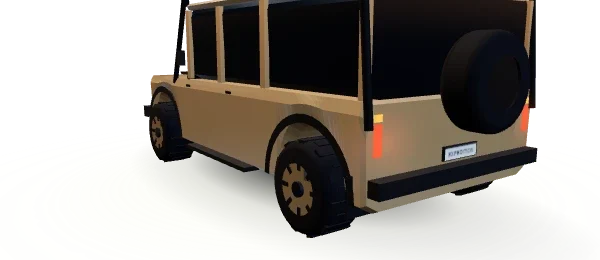
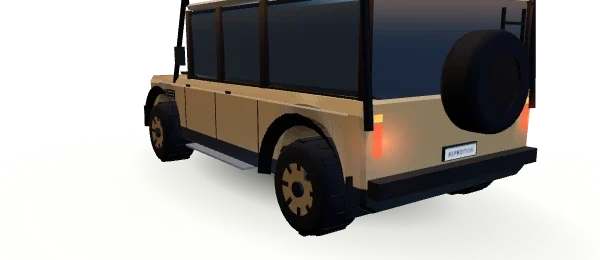
feat: 황혼 질주 SUV 2대 · 레트로 버블 다듬기 — SUV: 반사 유리 · 검은 아래 몸 · 두툼한 펜더 · 문 틈 · 어깨선 · 보닛 · 펜더 통풍구 · 헤드램프 크롬 테와 LED 고리 · 안개등 · 견인고리 · 하부 보호판 · 지붕 레일 · 스페어 덮개 · 6살 알루미늄 휠 / 익스페디션 기름통 · 모래 사다리 · 어닝 · 뒷문 사다리 · 비드록 휠, 레트로: 하얀 띠 타이어 · 스피너 휠캡 · 크롬 범퍼와 뿔 · 크롬 유리 테 · 옆 크롬 띠 · 지붕까지 줄무늬 · 사탕 빨강, 캐시 ?v=37

diff --git a/web/games/embed/twilightrun/concepts.js b/web/games/embed/twilightrun/concepts.js
@@ -1,5 +1,5 @@
-import { TIRE_RADIUS } from './drive.js?v=36';
-import { bodyFinish, glassFinish } from './finishes.js?v=36';
+import { TIRE_RADIUS } from './drive.js?v=37';
+import { bodyFinish, glassFinish } from './finishes.js?v=37';
 
 // 차고에서 사는 새 차 6대. 기존 4종(매끈 · 투톤 지붕 · 칼날 LED)과 겹치지 않게 차마다 몸통 단면 · 유리 · 얼굴 조명 · 꼬리를 따로 짠다.
 // 모양은 운영자가 준 참고 사진 6장(2026-11-21)을 따라가고, 로고 · 엠블럼 · 글자는 넣지 않는다.
@@ -99,7 +99,7 @@ export function createConcepts(T, kit) {
     const brake = standard(look.brake, .39, .19);
     const rim = standard(look.rim, .24, .72);
     const accent = look.lip ? basic(look.lip) : rim;
-    const cover = look.disc ? new T.CylinderGeometry(.30, .30, .02, 28) : null;
+    const cover = look.disc ? new T.CylinderGeometry(look.coverR || .3, look.coverR || .3, .02, 28) : null;
     for (const s of [-1, 1]) for (const end of [-1, 1]) {
       const assembly = new T.Group(), rotating = new T.Group();
       const front = end < 0;
@@ -111,8 +111,8 @@ export function createConcepts(T, kit) {
       tire.rotation.z = Math.PI / 2;
       if (look.tread) {
         tire.scale.y = 1.3;
-        for (let i = 0; i < 22; i++) {
-          const a = i * Math.PI * 2 / 22;
+        for (let i = 0; i < 16; i++) {
+          const a = i * Math.PI * 2 / 16;
           bar(rotating, rubber, (i % 2 ? .03 : -.03), Math.cos(a) * .362, Math.sin(a) * .362, .24, .026, .07, a);
         }
       }
@@ -143,6 +143,15 @@ export function createConcepts(T, kit) {
       } else for (let i = 0; i < look.spokes; i++) {
         const a = i * Math.PI * 2 / look.spokes;
         bar(rotating, rim, s * .164, Math.cos(a) * .136, Math.sin(a) * .136, .029, .212, look.width || .03, a + (look.twist || 0));
+      }
+      if (look.whitewall) piece(rotating, new T.TorusGeometry(.285, .032, 8, 36), basic('#f4f1e8'), s * .128, 0, 0).rotation.y = Math.PI / 2;
+      if (look.spinner) {
+        piece(rotating, new T.ConeGeometry(.07, .08, 16), rim, s * .2, 0, 0).rotation.z = -s * Math.PI / 2;
+        for (let k = 0; k < 3; k++) bar(rotating, rim, s * .19, Math.cos(k * 2.094) * .07, Math.sin(k * 2.094) * .07, .02, .12, .025, k * 2.094);
+      }
+      if (look.beadlock) for (let k = 0; k < 8; k++) {
+        const a = k * Math.PI / 4;
+        box(rotating, grille, s * .17, Math.cos(a) * .272, Math.sin(a) * .272, .02, .022, .022);
       }
       if (look.nut) piece(rotating, new T.CylinderGeometry(.05, .05, .03, 6), basic(look.nut), s * .182, 0, 0).rotation.z = Math.PI / 2;
       piece(rotating, lug, trim, s * .175, 0, 0).rotation.z = Math.PI / 2;
@@ -246,6 +255,15 @@ export function createConcepts(T, kit) {
     }
     box(bumper, lamp, 0, .32, l + .06, .12, .035, .015);
   }
+  function archFlare(group, material, x, s, zc, r, width, out) {
+    const a = [], b = [];
+    for (let i = 0; i <= 12; i++) {
+      const t = Math.PI * i / 12;
+      a.push([x, TIRE_RADIUS + Math.sin(t) * r, zc + Math.cos(t) * r]);
+      b.push([x + s * out, TIRE_RADIUS + Math.sin(t) * (r + width), zc + Math.cos(t) * (r + width)]);
+    }
+    return ribbon(group, material, a, b);
+  }
   function archRing(group, material, x, zc, r, width = .022) {
     const a = [], b = [];
     for (let i = 0; i <= 18; i++) {
@@ -272,12 +290,31 @@ export function createConcepts(T, kit) {
     const main = [[-l, w * .94, .32, .98, .95], [-l + .06, w * .98, .3, 1.04, .96], [-.85, w, .3, 1.06, .96], [l - .04, w, .3, 1.08, .97], [l, w * .98, .32, 1.06, .97]];
     const surface = wheelArches(main, axle, { front: 0, rear: 0, flare: 0, step: .25, lip: .02 });
     return {
-      surface, body: loft(surface), flat: true, roofMat: expedition ? 'paint' : gloss,
+      surface, body: loft(surface), flat: true, roofMat: expedition ? 'paint' : gloss, glass: '#6a8294',
       cabin: loft([[-.86, w * .93, 1.04, 1.12, .99], [-.78, w * .92, 1.05, 1.82, .96], [l - .06, w * .92, 1.07, 1.82, .96]]),
       roof: loft([[-.8, w * .95, 1.8, 1.88, .97], [l - .04, w * .95, 1.8, 1.88, .97]]),
-      front: -.8, rear: .9, look: { pin: 0 },
+      front: -.8, rear: .9, look: { pin: 0, belt: [.5, 0], lower: '#1d1f21' },
       dress({ chassis, frontPanel, bumper, wing, flank, lamp, paint }) {
         const black = standard('#16181a', .7, .2);
+        const alloy2 = standard('#d9dde1', .2, .9);
+        const crease = standard(expedition ? '#f1d9ad' : '#de4a50', .2, .3);
+        // 공통 다듬기: 헤드램프 크롬 테 + LED 고리, 안개등 · 견인고리 · 알루미늄 하부 보호판, 보닛 통풍구, 앞 펜더 옆 통풍구, 문 틈 · 어깨선, 유리 고무 테, 두툼한 펜더
+        for (const s of [-1, 1]) {
+          piece(frontPanel, new T.TorusGeometry(.1, .014, 8, 28), alloy2, s * w * .68, .87, -l - .03);
+          piece(frontPanel, new T.TorusGeometry(.066, .008, 6, 24), basic('#ffffff'), s * w * .68, .87, -l - .045);
+          piece(frontPanel, new T.CylinderGeometry(.045, .045, .03, 16), basic('#fff4d0'), s * w * .74, .55, -l - .16).rotation.x = Math.PI / 2;
+          box(frontPanel, basic('#d4271c'), s * w * .42, .47, -l - .16, .05, .03, .06);
+          for (let k = 0; k < 2; k++) box(chassis, grille, s * w * .32, 1.088, -1.75 + k * .14, .26, .006, .05);
+          box(flank[s], grille, s * (w + .006), .86, -1.25, .006, .11, .24);
+          for (let k = 0; k < 3; k++) box(flank[s], alloy2, s * (w + .01), .82 + k * .035, -1.25, .006, .008, .22);
+          box(flank[s], crease, s * (w + .006), .985, 0, .006, .014, 2 * l - .3);
+          for (const z of [-.82, -.05, .78]) box(flank[s], grille, s * (w + .004), .74, z, .004, .5, .008);
+          for (const y of [1.08, 1.78]) box(chassis, black, s * w * .925, y, (l - .85) / 2, .02, .03, l + .8);
+          for (const zc of [-axle, axle]) archFlare(flank[s], black, s * (w + .015), s, zc, .48, .1, .07);
+          box(flank[s], alloy2, s * w * 1.0, .35, 0, .18, .02, 1.3);
+          glowSprite(bumper, '#ff3a26', s * w * .88, .82, l + .06, .5, .3);
+        }
+        box(frontPanel, alloy2, 0, .36, -l + .05, w * 1.1, .02, .42);
         const steel = standard(expedition ? '#2a2c2e' : '#bfc4c8', .35, .7);
         box(chassis, expedition ? black : paint, 0, 1.07, -1.45, w * 1.2, .03, .95);
         box(frontPanel, grille, 0, .86, -l - .008, w * .86, .26, .02);
@@ -286,12 +323,14 @@ export function createConcepts(T, kit) {
           box(frontPanel, steel, s * w * .7, .86, -l - .012, .3, .26, .02);
           piece(frontPanel, new T.CylinderGeometry(.085, .085, .03, 20), basic('#fff6dc'), s * w * .68, .87, -l - .03).rotation.x = Math.PI / 2;
           for (const y of [.79, .94]) piece(frontPanel, new T.CylinderGeometry(.024, .024, .02, 10), basic('#ffb02a'), s * w * .86, y, -l - .03).rotation.x = Math.PI / 2;
-          for (const zc of [-axle, axle]) archRing(flank[s], black, s * (w + .02), zc, .5, .07);
-          box(flank[s], black, s * w * 1.0, .34, 0, .16, .04, 1.3);
           for (const z of [-.7, .25]) box(flank[s], steel, s * (w + .012), 1.0, z, .012, .025, .09);
           for (const z of [-.8, -.05, .78, l - .07]) box(chassis, paint, s * w * .93, 1.44, z, .045, .74, .08);
-          box(chassis, black, s * w * 1.06, 1.3, -.76, .05, .16, .12);
-          if (!expedition) box(chassis, standard('#1d2a35', .1, .7), s * w * .8, 1.875, .3, .22, .03, 1.0);
+          box(chassis, black, s * w * 1.07, 1.32, -.76, .06, .2, .15);
+          if (!expedition) {
+            box(chassis, standard('#2c3a46', .05, .85), s * w * .8, 1.875, .3, .22, .03, 1.0);
+            rod(chassis, alloy2, [s * w * .82, 1.95, -.7], [s * w * .82, 1.95, l - .2], .018);
+            for (const z of [-.7, l - .2]) rod(chassis, alloy2, [s * w * .82, 1.87, z], [s * w * .82, 1.95, z], .018);
+          }
           box(bumper, lamp, s * w * .88, .82, l + .012, .07, .22, .012);
           box(bumper, basic('#ffb02a'), s * w * .88, .97, l + .012, .07, .05, .012);
         }
@@ -303,6 +342,10 @@ export function createConcepts(T, kit) {
         spare.rotation.x = Math.PI / 2;
         piece(spare, detailWheel, rubber, 0, 0, 0);
         piece(spare, new T.CylinderGeometry(.24, .24, .2, 20), steel, 0, 0, 0);
+        if (!expedition) {
+          piece(spare, new T.CylinderGeometry(.38, .38, .24, 28, 1, true), paint, 0, 0, 0);
+          piece(spare, new T.CylinderGeometry(.14, .14, .26, 20), alloy2, 0, 0, 0);
+        }
         bumper.add(spare);
         if (expedition) {
           const rack = standard('#202224', .5, .6);
@@ -314,7 +357,7 @@ export function createConcepts(T, kit) {
             for (const x of [.35, .72]) rod(frontPanel, rack, [s * w * x, .5, -l - .17], [s * w * x, .98, -l - .14], .03);
             box(flank[s], black, s * w * .88, .42, axle + .5, .3, .3, .02);
           }
-          for (let k = 0; k <= 8; k++) rod(chassis, rack, [-w * .9, 2.02, lerp(-1, l - .1, k / 8)], [w * .9, 2.02, lerp(-1, l - .1, k / 8)], .02);
+          for (let k = 0; k <= 5; k++) rod(chassis, rack, [-w * .9, 2.02, lerp(-1, l - .1, k / 5)], [w * .9, 2.02, lerp(-1, l - .1, k / 5)], .02);
           rod(frontPanel, rack, [-w * .8, .98, -l - .14], [w * .8, .98, -l - .14], .03);
           for (let k = 0; k < 4; k++) {
             const x = (k - 1.5) * w * .36;
@@ -326,10 +369,19 @@ export function createConcepts(T, kit) {
           box(frontPanel, steel, 0, .53, -l - .17, .3, .1, .1);
           glowSprite(chassis, '#fff3cc', 0, 2.13, -1.1, 1.2, .25);
           rod(chassis, black, [w * 1.03, .98, -.92], [w * 1.03, 1.9, -.86], .045);
+          const can = standard('#4b5a38', .5, .2), ladder = standard('#ff7a1a', .45, .1);
+          for (const x of [-.25, .05]) {
+            box(chassis, can, x * w, 2.2, l - .45, .16, .3, .24);
+            box(chassis, black, x * w, 2.37, l - .45, .1, .03, .05);
+          }
+          for (const x of [-.75, -.55]) box(chassis, ladder, x * w, 2.07, .05, .16, .03, 1.2);
+          piece(chassis, new T.CylinderGeometry(.07, .07, 2.2, 12), black, w * .99, 2.0, .15).rotation.x = Math.PI / 2;
+          for (let k = 0; k < 4; k++) box(bumper, rack, w * .52, .95 + k * .22, l + .06, .3, .022, .022);
+          for (const x of [.38, .66]) box(bumper, rack, x * w, 1.3, l + .06, .022, .85, .022);
         }
         return { plateY: .64, tail: [.88, .82], head: [.68, .87, 0] };
       },
-      wheel: expedition ? { brake: '#555', rim: '#c9a56a', spokes: 8, disc: true, tread: true } : { brake: '#555', rim: '#c8ccd0', spokes: 5, disc: true, tread: true },
+      wheel: expedition ? { brake: '#555', rim: '#c9a56a', spokes: 8, disc: true, tread: true, beadlock: true } : { brake: '#c52d2d', rim: '#d2d6da', spokes: 6, width: .06, tread: true, big: true, nut: '#2a2c2e' },
     };
   }
 
@@ -532,10 +584,30 @@ export function createConcepts(T, kit) {
         roof: [[-.36, w * .5, 1.2, 1.275, .72], [.4, w * .48, 1.21, 1.285, .72], [.95, w * .4, 1.0, 1.065, .78]],
       });
       return {
-        ...c, roofMat: 'paint', glass: '#2c4a3a', style: 2, stripe: '#121212', front: -.7, rear: .9, look: { pin: 0 },
+        ...c, roofMat: 'finish', glass: '#5f8590', style: 2, stripe: '#121212', front: -.7, rear: .9, look: { pin: 0 },
+        paint: { roughness: .13, metalness: .32, clearcoat: 1, clearcoatRoughness: .04, envMapIntensity: 1.25 },
         dress({ chassis, frontPanel, bumper, wing, flank, lamp }) {
           const chrome = standard('#e1e4e8', .08, 1);
           const nose = -l - .055;
+          // 크롬 다듬기: 옆 크롬 띠 · 유리 크롬 테 · 둥근 크롬 범퍼와 범퍼 뿔 · 안개등 · 보닛 장식 · 쌍 배기구 · 크롬 후미등 테
+          for (const s of [-1, 1]) {
+            sideLine(flank[s], chrome, s, z => c.edge(z) + .004, -l + .35, .5, l - .2, .52, .014, 16);
+            const cab = c.cabinList, a = [], b = [];
+            for (let i = 0; i <= 14; i++) {
+              const z = lerp(cab[0][0] + .06, cab.at(-1)[0] - .06, i / 14);
+              a.push([s * (at(cab, z, 1) + .006), at(cab, z, 2) + .03, z]);
+              b.push([s * (at(cab, z, 1) + .006), at(cab, z, 2) + .05, z]);
+            }
+            ribbon(chassis, chrome, a, b);
+            rod(frontPanel, chrome, [s * w * .2, .22, nose - .07], [s * w * .2, .4, nose - .06], .022);
+            piece(frontPanel, new T.TorusGeometry(.04, .01, 6, 18), chrome, s * w * .5, .3, nose - .02);
+            piece(frontPanel, new T.CircleGeometry(.036, 16), basic('#ffd76a'), s * w * .5, .3, nose - .015).rotation.y = Math.PI;
+            piece(bumper, new T.TorusGeometry(.065, .012, 6, 22), chrome, s * c.fx, .62, l + .05);
+            piece(bumper, new T.CylinderGeometry(.035, .035, .14, 12), chrome, s * w * .3, .3, l + .02).rotation.x = Math.PI / 2;
+          }
+          rod(frontPanel, chrome, [-w * .78, .27, nose + .02], [w * .78, .27, nose + .02], .028);
+          rod(bumper, chrome, [-w * .7, .4, l + .06], [w * .7, .4, l + .06], .028);
+          bar(chassis, chrome, 0, top(c.main, -l + .25) + .03, -l + .25, .012, .05, .16, -.3);
           const ring = piece(frontPanel, new T.TorusGeometry(.16, .02, 10, 36), chrome, 0, .43, nose - .01);
           ring.scale.set(1.35, .78, 1);
           const hole = piece(frontPanel, new T.CircleGeometry(.16, 32), grille, 0, .43, nose - .004);
@@ -546,15 +618,13 @@ export function createConcepts(T, kit) {
             const x = s * c.fx;
             piece(frontPanel, new T.TorusGeometry(.105, .022, 10, 32), chrome, x, .62, -l + .1);
             piece(frontPanel, new T.CircleGeometry(.1, 28), basic('#fff3dc'), x, .62, -l + .095).rotation.y = Math.PI;
-            for (let k = 0; k < 6; k++) box(flank[s], grille, s * c.edge(-.62 + k * .05), .6, -.62 + k * .05, .01, .12, .014);
+            for (let k = 0; k < 6; k++) box(flank[s], chrome, s * c.edge(-.62 + k * .05), .6, -.62 + k * .05, .01, .12, .014);
             box(chassis, chrome, s * w * .74, .98, -.66, .1, .06, .08);
             piece(bumper, new T.CircleGeometry(.055, 20), lamp, x, .62, l + .045);
           }
-          box(frontPanel, chrome, 0, .29, nose - .04, w * 1.5, .03, .04);
-          box(bumper, chrome, 0, .4, l + .05, w * 1.4, .03, .04);
           return { plateY: .5, tail: [.72, .62], head: [.72, .62, -.1] };
         },
-        wheel: { brake: '#333', rim: '#d0d3d6', spokes: 0, disc: true },
+        wheel: { brake: '#333', rim: '#e6e9ec', spokes: 0, disc: true, coverR: .19, whitewall: true, spinner: true },
       };
     },
     // 10 스틸 웨지 — 스테인리스 각진 전기 픽업(운영자 참고 사진): 삼각형 지붕선, 앞 끝 전체 가로 빛줄, 각진 검은 펜더, 높은 차체
@@ -683,7 +753,7 @@ export function createConcepts(T, kit) {
     const base = d.glass ? standard(d.glass, .06, .8) : glass;
     const glazing = glassFinish(T, base, { w, front: d.front, rear: d.rear }, crackedGlass);
     if (d.flat) glazing.material.flatShading = true;
-    chassis.add(new T.Mesh(coachwork, finish.material), new T.Mesh(d.cabin, glazing.material), new T.Mesh(d.roof, d.roofMat === 'paint' ? paint : d.roofMat || gloss));
+    chassis.add(new T.Mesh(coachwork, finish.material), new T.Mesh(d.cabin, glazing.material), new T.Mesh(d.roof, d.roofMat === 'finish' ? finish.material : d.roofMat === 'paint' ? paint : d.roofMat || gloss));
     chassis.children.forEach(mesh => { mesh.castShadow = true; });
     group.add(chassis);
     const wheels = wheelSet(group, car, w, d.wheel);

diff --git a/web/games/embed/twilightrun/game.js b/web/games/embed/twilightrun/game.js
@@ -1,10 +1,10 @@
-import { advanceWreck, callRest, cars, carStats, clamp, courses, createRun, damageStage, eatFood, foods, leaveRest, MAX_HEALTH, modes, nextRest, carCondition, FUEL_FREE, fuelRate, pumpFuel, serviceCar, shopItems, useShopItem, servicePrice, services, REST_SIGN, restNames, reward, routeMode, SCORE_LIMIT, sectionIndex, step } from './drive.js?v=36';
-import { createScene } from './scene.js?v=36';
-import { impactDuration } from './impact.js?v=36';
-import { assetRoot } from './world.js?v=36';
-import { requestYield } from './traffic.js?v=36';
-import { createShowroom } from './showroom.js?v=36';
-import { dayProgress, dayTime, weatherAt, weatherNames } from './daytime.js?v=36';
+import { advanceWreck, callRest, cars, carStats, clamp, courses, createRun, damageStage, eatFood, foods, leaveRest, MAX_HEALTH, modes, nextRest, carCondition, FUEL_FREE, fuelRate, pumpFuel, serviceCar, shopItems, useShopItem, servicePrice, services, REST_SIGN, restNames, reward, routeMode, SCORE_LIMIT, sectionIndex, step } from './drive.js?v=37';
+import { createScene } from './scene.js?v=37';
+import { impactDuration } from './impact.js?v=37';
+import { assetRoot } from './world.js?v=37';
+import { requestYield } from './traffic.js?v=37';
+import { createShowroom } from './showroom.js?v=37';
+import { dayProgress, dayTime, weatherAt, weatherNames } from './daytime.js?v=37';
 
 const $ = id => document.getElementById(id);
 const stage = $('road');
@@ -220,7 +220,7 @@ setOptions('course', courses);
 setOptions('mode', modes);
 
 const carOptions = $('car-options');
-const carPicture = car => `${assetRoot}garage/${car.shape}.webp?v=36`;
+const carPicture = car => `${assetRoot}garage/${car.shape}.webp?v=37`;
 // 차 단추에 마우스를 올리면(키보드는 포커스, 터치는 누를 때 잠깐) 주행 때와 같은 3D 모델을 패널 옆에 크게 띄운다
 const carStage = $('car-stage');
 const showroom = createShowroom(carStage.querySelector('canvas'), cars,

diff --git a/web/games/embed/twilightrun/scene.js b/web/games/embed/twilightrun/scene.js
@@ -1,9 +1,9 @@
-import { clamp, damageStage as wearStage, frontWheelAngle, PANEL_BREAK, roadSlope, roadX, roadY, TIRE_RADIUS, trackLook } from './drive.js?v=36';
-import { createFallback } from './scene-fallback.js?v=36';
-import { createCarModels } from './models.js?v=36';
-import { createImpactFx, impactMotion } from './impact.js?v=36';
-import { dayProgress, dayTime, weatherAt } from './daytime.js?v=36';
-import { assetRoot, atmospheres, createWorld, glowMap, random } from './world.js?v=36';
+import { clamp, damageStage as wearStage, frontWheelAngle, PANEL_BREAK, roadSlope, roadX, roadY, TIRE_RADIUS, trackLook } from './drive.js?v=37';
+import { createFallback } from './scene-fallback.js?v=37';
+import { createCarModels } from './models.js?v=37';
+import { createImpactFx, impactMotion } from './impact.js?v=37';
+import { dayProgress, dayTime, weatherAt } from './daytime.js?v=37';
+import { assetRoot, atmospheres, createWorld, glowMap, random } from './world.js?v=37';
 
 const poses = [
   { back: 8.5, height: 2.9 },

diff --git a/web/games/embed/twilightrun/scene-fallback.js b/web/games/embed/twilightrun/scene-fallback.js
@@ -1,6 +1,6 @@
-import { ROAD_WIDTH, clamp, frontWheelAngle, roadSlope, roadX, roadY, TIRE_RADIUS, trackLook } from './drive.js?v=36';
-import { assetRoot, atmospheres } from './world.js?v=36';
-import { impactDuration, impactMotion } from './impact.js?v=36';
+import { ROAD_WIDTH, clamp, frontWheelAngle, roadSlope, roadX, roadY, TIRE_RADIUS, trackLook } from './drive.js?v=37';
+import { assetRoot, atmospheres } from './world.js?v=37';
+import { impactDuration, impactMotion } from './impact.js?v=37';
 
 const palettes = {
   coast: { sky: ['#263549', '#af655a', '#f6b079'], hills: ['#846770', '#625661', '#444651'], land: ['#495454', '#465152'], road: ['#393b42', '#3c3e45'], rail: '#8e817d', sun: '#ffdb9b' },

diff --git a/web/games/embed/twilightrun.html b/web/games/embed/twilightrun.html
@@ -5,7 +5,7 @@
   <meta name="viewport" content="width=device-width,initial-scale=1">
   <meta name="theme-color" content="#141617">
   <title>황혼 질주 · Twilight Run</title>
-  <link rel="stylesheet" href="twilightrun/style.css?v=36">
+  <link rel="stylesheet" href="twilightrun/style.css?v=37">
 </head>
 <body>
   <main class="game">
@@ -260,6 +260,6 @@
     </dialog>
   </main>
   <script defer src="twilightrun/vendor/three-r160.min.js"></script>
-  <script type="module" src="twilightrun/game.js?v=36"></script>
+  <script type="module" src="twilightrun/game.js?v=37"></script>
 </body>
 </html>

diff --git a/web/games/embed/twilightrun/models.js b/web/games/embed/twilightrun/models.js
@@ -1,6 +1,6 @@
-import { TIRE_RADIUS } from './drive.js?v=36';
-import { bodyFinish, fractureMap, glassFinish } from './finishes.js?v=36';
-import { createConcepts } from './concepts.js?v=36';
+import { TIRE_RADIUS } from './drive.js?v=37';
+import { bodyFinish, fractureMap, glassFinish } from './finishes.js?v=37';
+import { createConcepts } from './concepts.js?v=37';
 
 // Local car coordinates point toward -Z. Lofted cross sections describe the coachwork in metres.
 const profiles = {

diff --git a/web/games/embed/twilightrun/showroom.js b/web/games/embed/twilightrun/showroom.js
@@ -1,5 +1,5 @@
-import { createCarModels } from './models.js?v=36';
-import { glowMap } from './world.js?v=36';
+import { createCarModels } from './models.js?v=37';
+import { glowMap } from './world.js?v=37';
 
 // 첫 화면 · 차고에서 고른 차를 크게 보여 준다 — 주행 때와 같은 3D 모델(model(car, true))을 천천히 돌린다.
 // GPU 를 아끼려고 첫 화면이 보일 때만, 초당 30장까지만 그리고 그림자 맵 대신 바닥 빛 한 장을 쓴다.

diff --git a/web/games/embed/twilightrun/drive.js b/web/games/embed/twilightrun/drive.js
@@ -1,5 +1,5 @@
-import { advanceTraffic, LANES, sweptContact } from './traffic.js?v=36';
-import { DAY_STARTS, dayProgress, trafficBand, weatherAt } from './daytime.js?v=36';
+import { advanceTraffic, LANES, sweptContact } from './traffic.js?v=37';
+import { DAY_STARTS, dayProgress, trafficBand, weatherAt } from './daytime.js?v=37';
 
 export const ROAD_WIDTH = 14.4;
 export { LANES };

diff --git a/web/games/embed/twilightrun/world.js b/web/games/embed/twilightrun/world.js
@@ -1,4 +1,4 @@
-import { ROAD_WIDTH, roadX, roadY, sectionIndex, trackLook } from './drive.js?v=36';
+import { ROAD_WIDTH, roadX, roadY, sectionIndex, trackLook } from './drive.js?v=37';
 
 export const assetRoot = '/assets/games/twilightrun/';
 export const atmospheres = {

diff --git a/web/games/embed/twilightrun/impact.js b/web/games/embed/twilightrun/impact.js
@@ -1,4 +1,4 @@
-import { clamp, roadX, roadY } from './drive.js?v=36';
+import { clamp, roadX, roadY } from './drive.js?v=37';
 
 export const impactDuration = 1.52;
 export function impactMotion(impact, age) {
